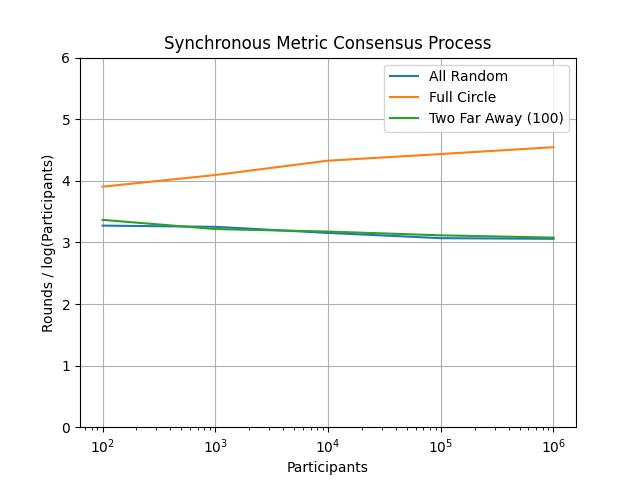
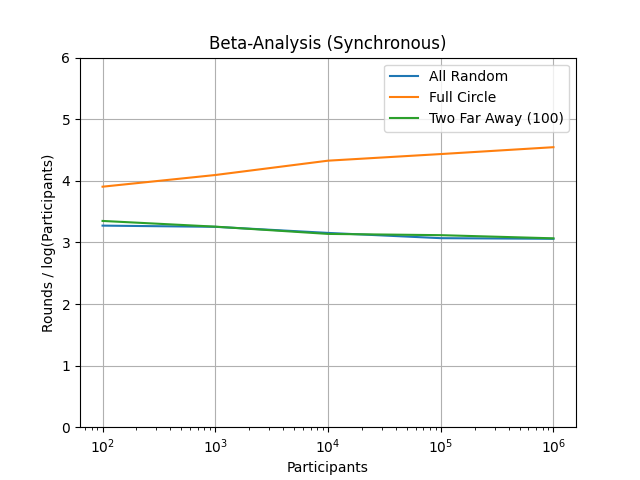
diagram changes

diff --git a/src/ConsensusTimePlots.py b/src/ConsensusTimePlots.py
@@ -53,16 +53,16 @@ def convertToDiagramSingle(data : list[tuple], ax):
     return ax.plot(participants, roundsMean)
 
 def main():
-    isAllInSingleFile = True
+    isAllInSingleFile = False
 
     #Files
-    path = "results/OneLargeCluster_R-100_SYNC-true.csv" # Base plot
+    path = "results/06-12-2022_13-02-49_R-100_SYNC-true.csv" # Base plot
     data = dt.getData(path)
     
     path2 = "results/FullCircle_R-100_SYNC-true.csv" # Full circle
     data2 = dt.getData(path2)
     
-    path3 = "results/FarAway_R-100_SYNC-true.csv"
+    path3 = "results/TwoFarAway_R-100_SYNC-true.csv"
     data3 = dt.getData(path3)
 
     #Figure
@@ -74,12 +74,12 @@ def main():
         group = sorted(set(group))
         convertToDiagram(group, data, ax)
     else:
-        #l, = convertToDiagramSingle(data, ax)
+        l, = convertToDiagramSingle(data, ax)
         g, = convertToDiagramSingle(data2, ax)
-        #f, = convertToDiagramSingle(data3, ax)
-        #l.set_label("All Random")
+        f, = convertToDiagramSingle(data3, ax)
+        l.set_label("All Random")
         g.set_label("Full Circle")
-        #f.set_label("Two Far Away (100)")
+        f.set_label("Two Far Away (100)")
         
 
     #Plot
